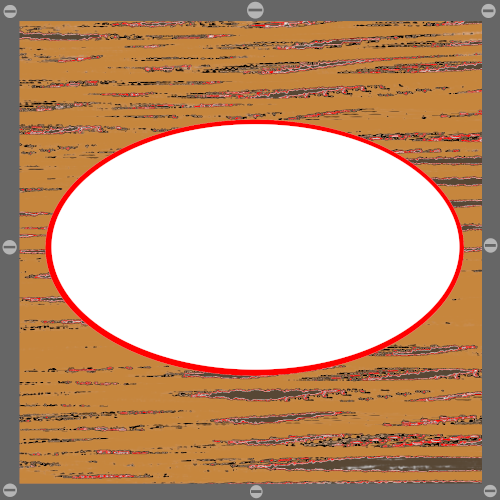
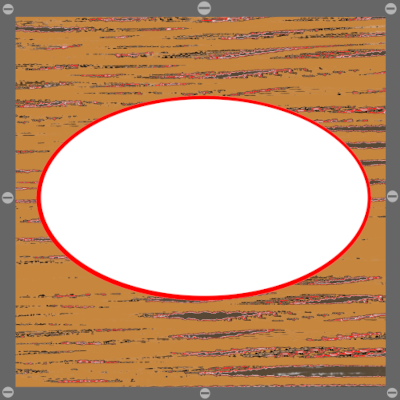
feat: Rescale image size

Changed region(s): [[0.9, 0.51, 0.93, 0.54], [0.63, 0.72, 0.66, 0.75]]

diff --git a/Game/src/View.java b/Game/src/View.java
@@ -13,7 +13,7 @@ import java.util.ArrayList;
 public class View extends JFrame{
 
 
-    private final String storagePicturePath = "./img/order-pic.png";
+    private final String storagePicturePath = "../img/order-pic.png";
     private JPanel panel1;
     private JToggleButton destroyButton;
     private JToggleButton moveStorageButton;
@@ -22,15 +22,17 @@ public class View extends JFrame{
     private JButton orderLeftView;
     private JButton orderRightView;
     private JLabel cashLabel;
-    private JPanel storage6;
-    private JPanel storage7;
-    private JPanel storage3;
-    private JPanel storage4;
-    private JPanel storage5;
-    private JPanel storage0;
-    private JPanel storage1;
-    private JPanel storage2;
-    private JPanel storage8;
+
+    private JLabel storage6;
+    private JLabel storage7;
+    private JLabel storage3;
+    private JLabel storage4;
+    private JLabel storage5;
+    private JLabel storage0;
+    private JLabel storage1;
+    private JLabel storage2;
+    private JLabel storage8;
+
     private JLabel product;
     private JLabel orderType;
     private JLabel money;
@@ -52,7 +54,7 @@ public class View extends JFrame{
     public static int NEXT_ORDER = 1;
 
     private int borderThicness = 15;
-    private JPanel[] storagePanelCollection;
+    private JLabel[] storagePanelCollection;
     private OrderManager orderManager;
     private AccountManager accountManager;
     private StorageHouse storageHouse;
@@ -113,7 +115,7 @@ public class View extends JFrame{
         storage7.addMouseListener(new StorageHandler(storage7Id, this.orderManager, this.accountManager,this));
         storage8.addMouseListener(new StorageHandler(storage8Id, this.orderManager, this.accountManager,this));
 
-        this.storagePanelCollection = new JPanel[9];
+        this.storagePanelCollection = new JLabel[9];
         this.storagePanelCollection[0] = storage0;
         this.storagePanelCollection[1] = storage1;
         this.storagePanelCollection[2] = storage2;
@@ -155,39 +157,27 @@ public class View extends JFrame{
             }
         });
 
-        repaintImg();
+        printStoragePictures();
 
         this.setVisible(true);
     }
 
-    public void repaintImg() {
-        Thread th = new Thread() {
-            @Override
-            public void run() {
-                printStoragePictures();
-                printPanelString();
-            }
-        };
-        th.start();
-    }
 
     private void printStoragePictures() {
         BufferedImage bufferedImage = null;
         try {
             bufferedImage = ImageIO.read(new File(storagePicturePath));
             Image storageIcon = (Image) bufferedImage;
+            ImageIcon icon = new ImageIcon(storageIcon);
 
-            for (JPanel panel : storagePanelCollection) {
+            for (JLabel panel : storagePanelCollection) {
                 Thread graphicThread = new Thread() {
                     @Override
                     public void run() {
                         super.run();
-                        panel.getGraphics().drawImage(storageIcon, 15, 15, 390, 180, new ImageObserver() {
-                            @Override
-                            public boolean imageUpdate(Image img, int infoflags, int x, int y, int width, int height) {
-                                return false;
-                            }
-                        });
+                        panel.setLayout(null);
+                        panel.setSize(500,500);
+                        panel.setIcon(icon);
                     }
                 };
                 graphicThread.run();
@@ -197,12 +187,14 @@ public class View extends JFrame{
         }
     }
 
-    private void printPanelString() {
+    public void printPanelString() {
         Order[] allTopOrders = storageHouse.getAllTopOrders();
         for (int i = 0; i < allTopOrders.length; i++) {
+            JLabel panel = storagePanelCollection[i];
             if (allTopOrders[i] != null){
-                JPanel panel = storagePanelCollection[i];
-                panel.getGraphics().drawString(allTopOrders[i].toString(), 105,110);
+                panel.setText(allTopOrders[i].toString());
+            } else {
+                panel.setText("leer");
             }
         }
     }
@@ -299,12 +291,12 @@ public class View extends JFrame{
                 }
             }
         } else {
-            for (JPanel panel : storagePanelCollection) {
+            for (JLabel panel : storagePanelCollection) {
                 panel.setBorder(getStandardBorder(Color.WHITE));
             }
         }
 
-        repaintImg();
+        printPanelString();
     }
 
     public void updateCash(int value) {
@@ -367,7 +359,7 @@ public class View extends JFrame{
         return this.destroyButton.isSelected();
     }
 
-    public JPanel[] getStoragePanels() {
+    public JLabel[] getStoragePanels() {
         return this.storagePanelCollection;
     }
 }

diff --git a/Game/src/StorageHandler.java b/Game/src/StorageHandler.java
@@ -33,7 +33,7 @@ public class StorageHandler extends MouseAdapter {
         }
 
         gameOverCheck();
-        this.view.repaintImg();
+        this.view.printPanelString();
     }
 
     private void moveTask() {
@@ -60,9 +60,9 @@ public class StorageHandler extends MouseAdapter {
     }
 
     private void destroyOrder(MouseEvent e) {
-        JPanel storage = (JPanel) e.getSource();
+        JLabel storage = (JLabel) e.getSource();
         int containsSource = 0;
-        JPanel[] list = this.view.getStoragePanels();
+        JLabel[] list = this.view.getStoragePanels();
         for (containsSource = 0; containsSource < list.length; containsSource++) {
             if (list[containsSource] == storage) {
                 break;
